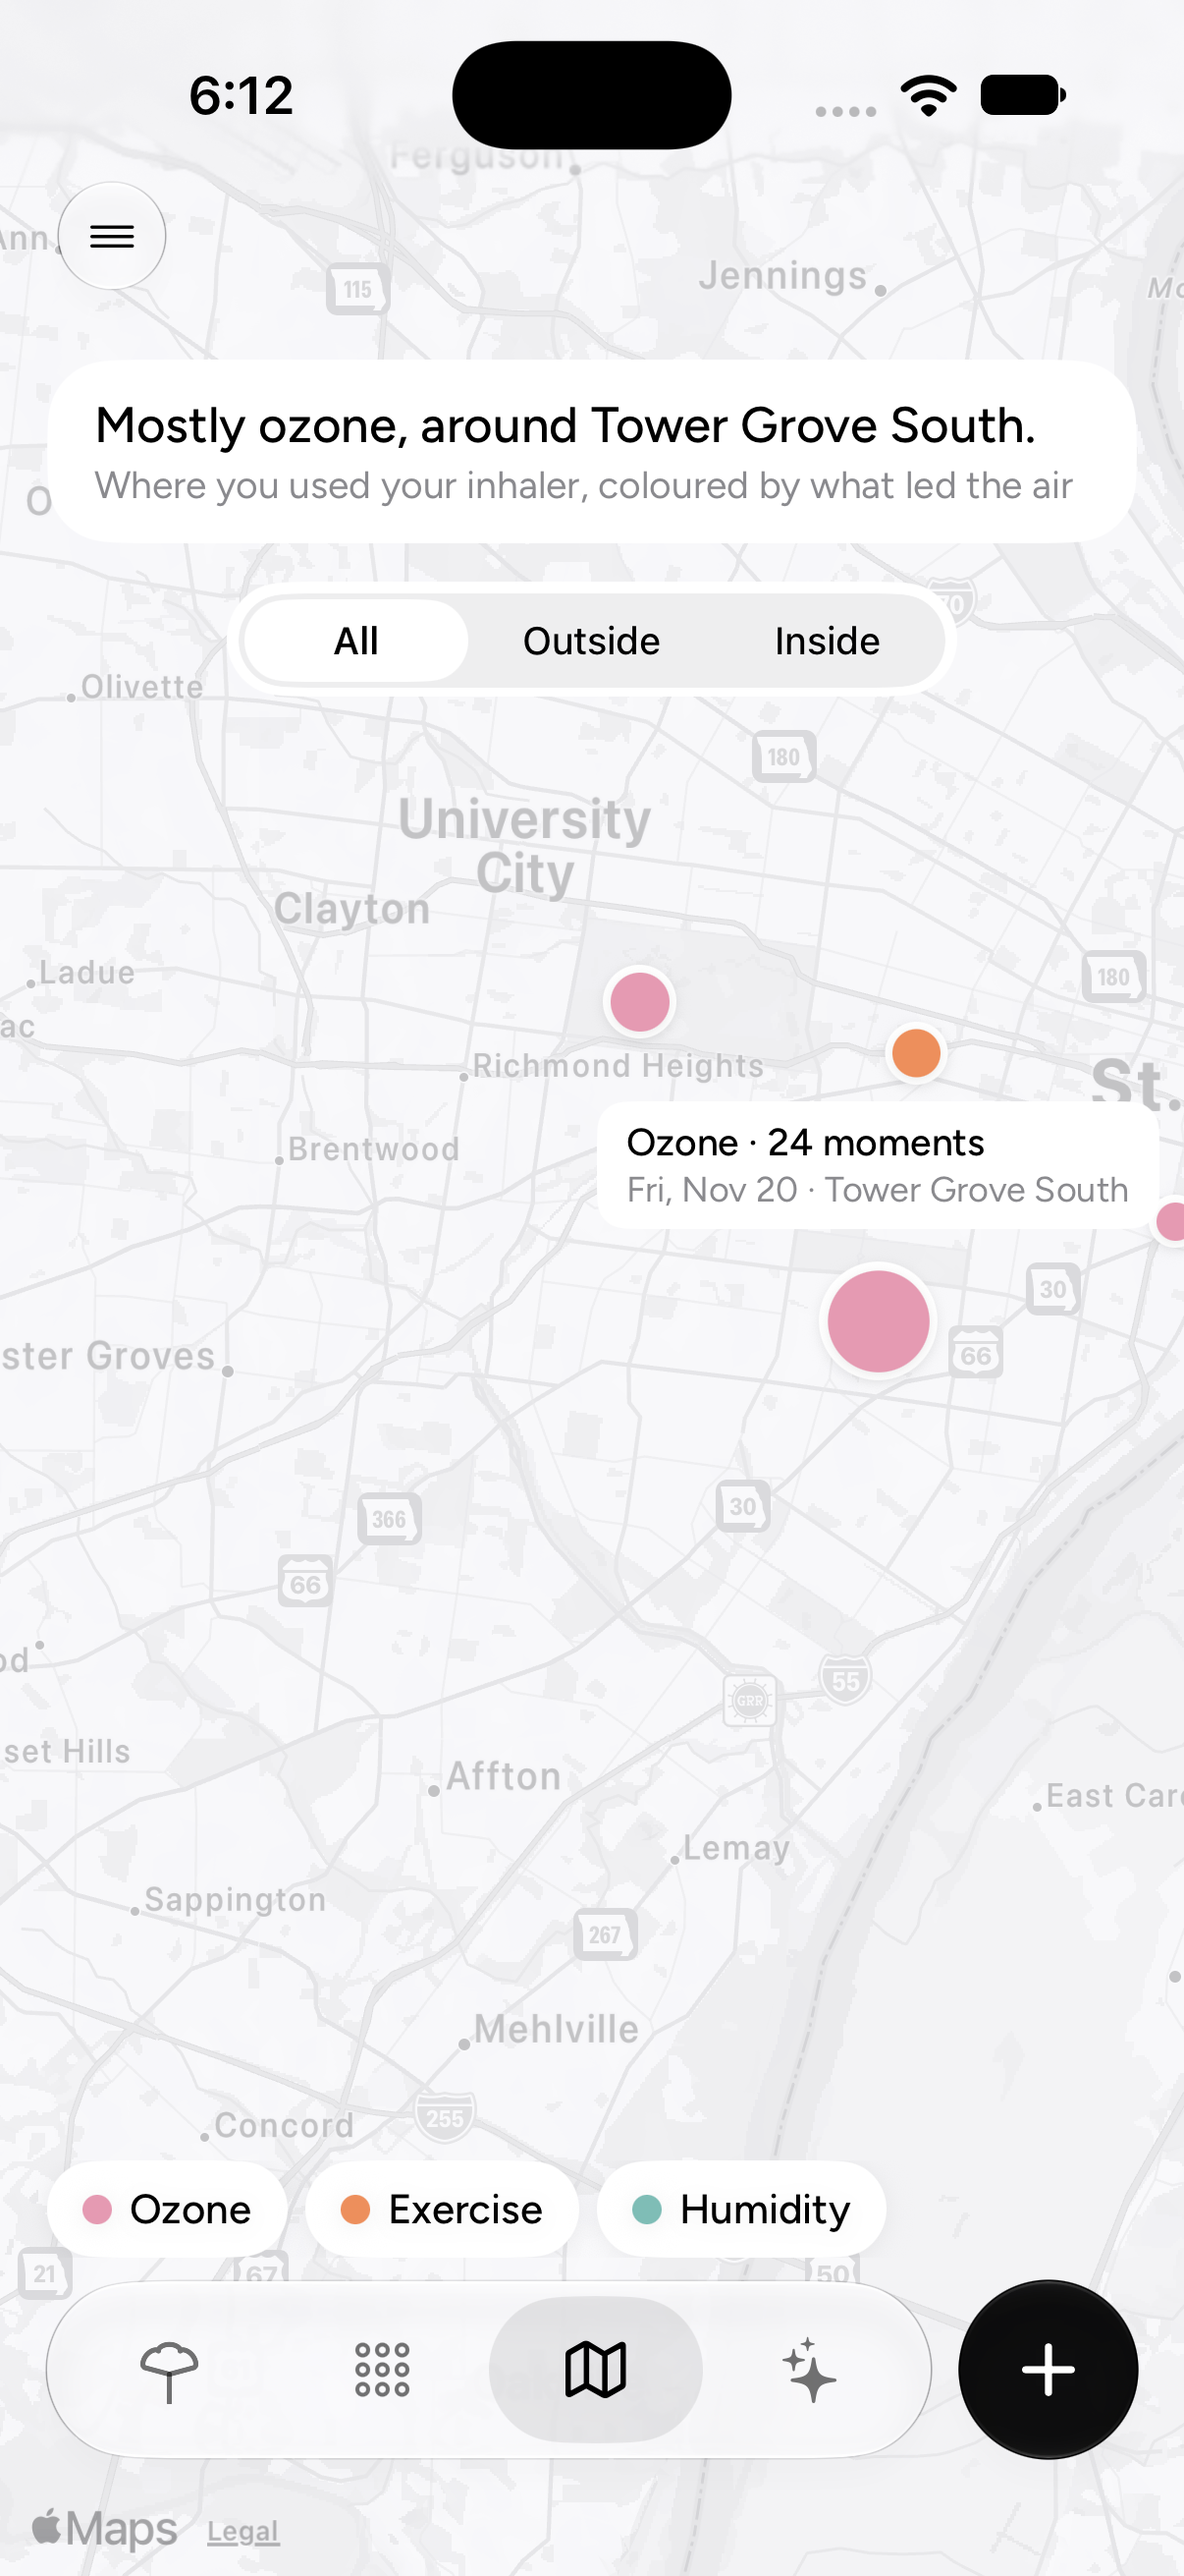
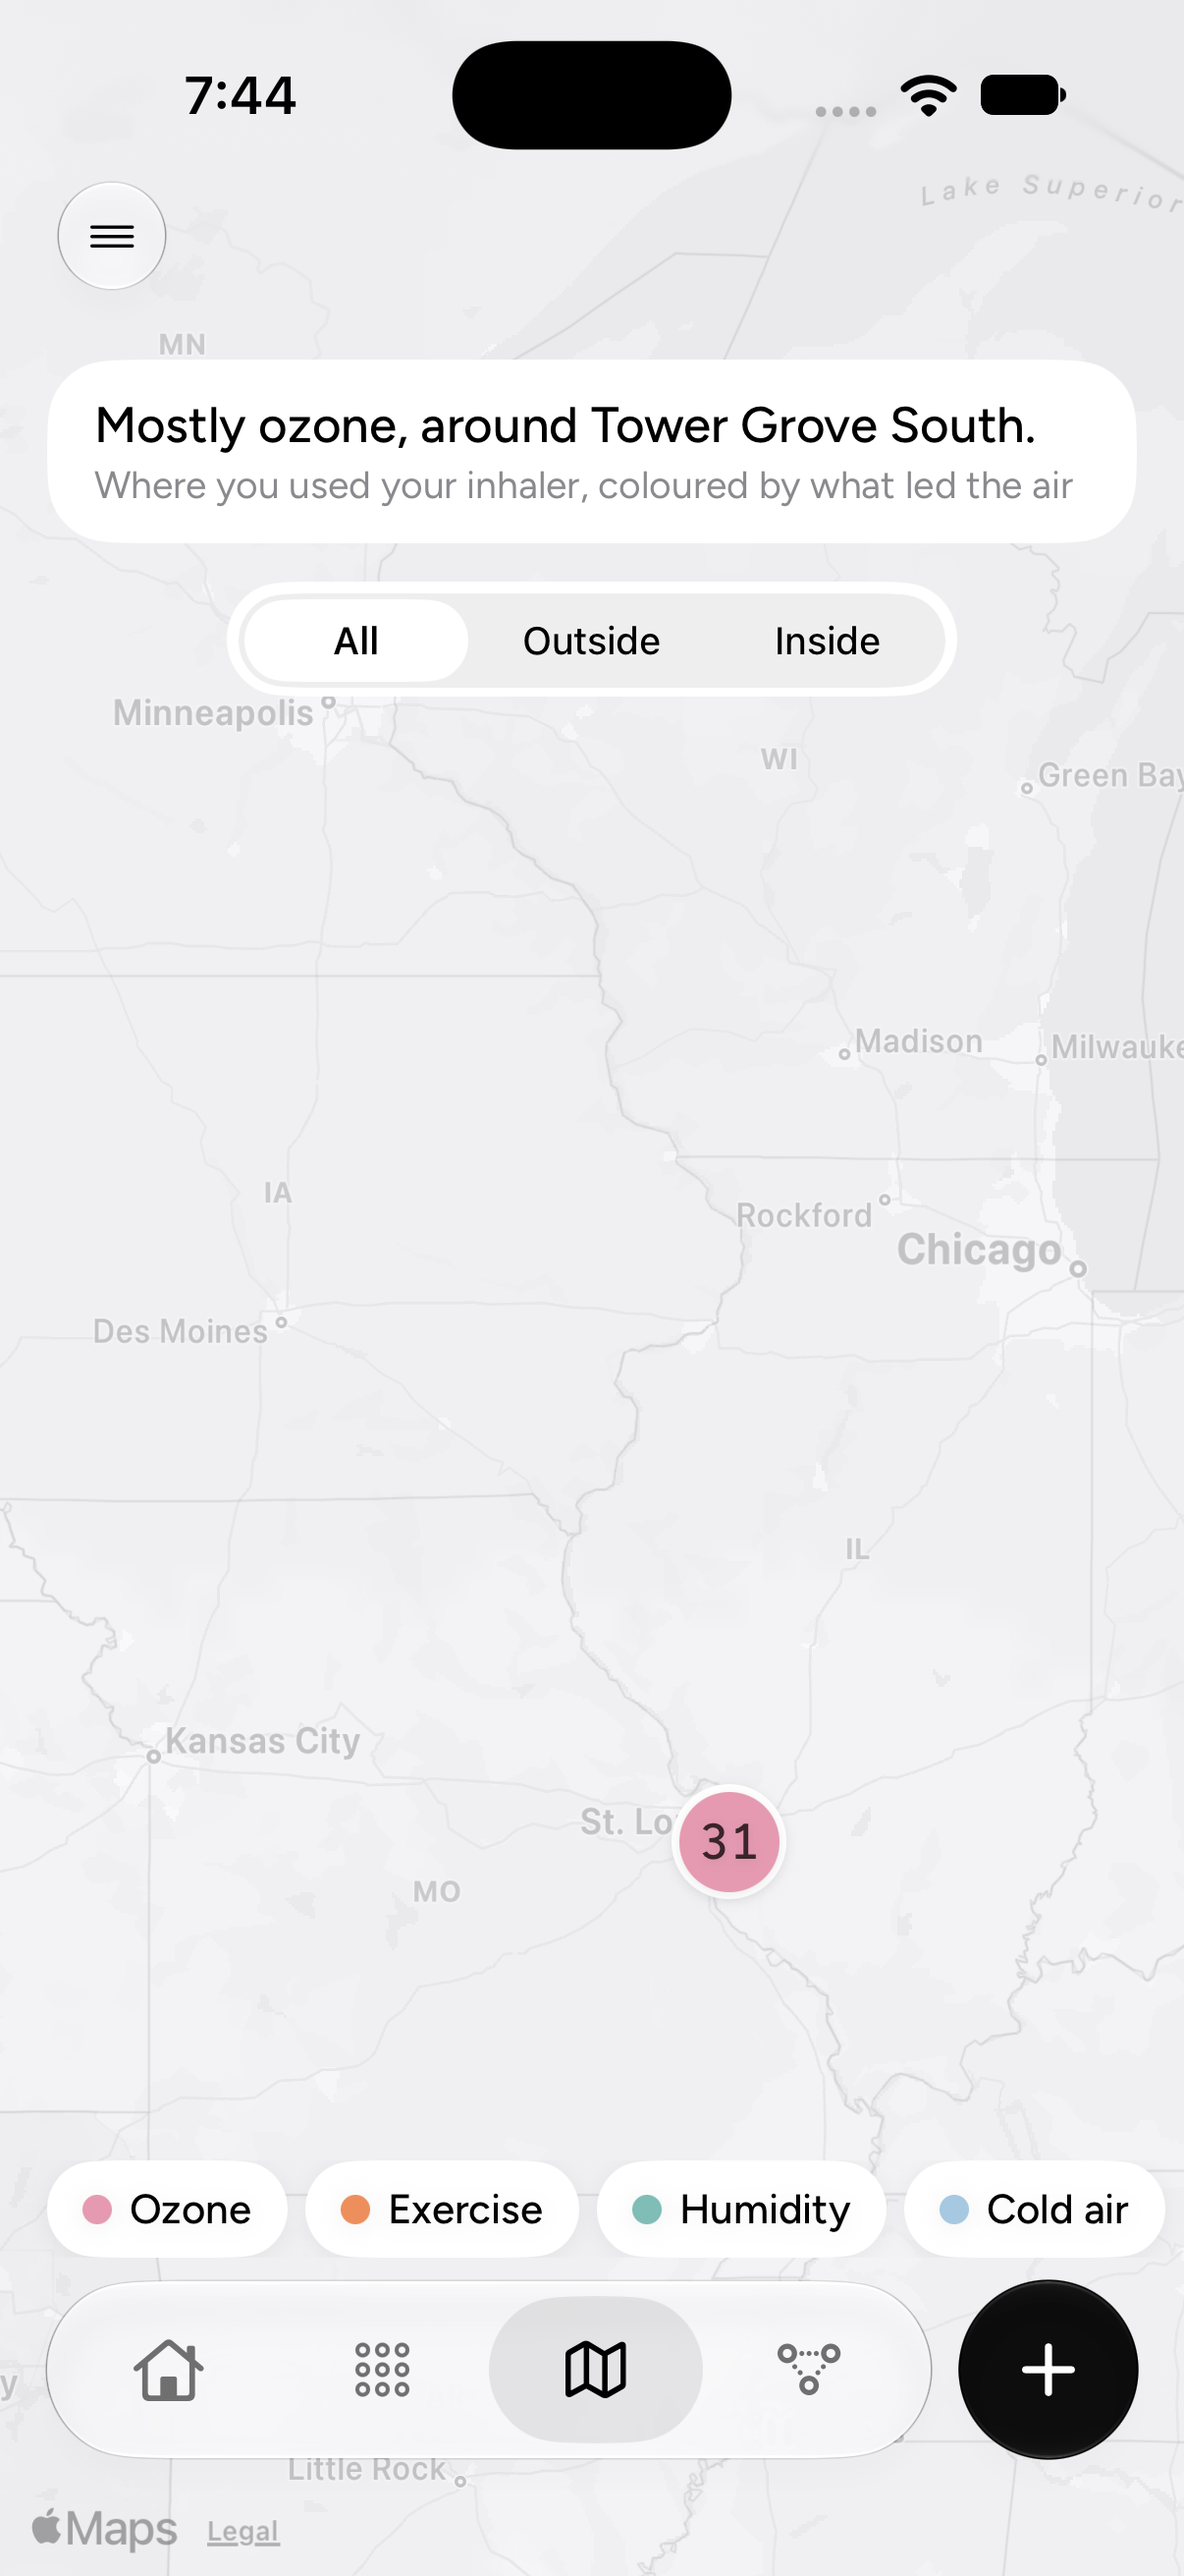
Map: count back inside cluster drops, no ring

diff --git a/ios/AsthmaLog/Journal/MenusMapView.swift b/ios/AsthmaLog/Journal/MenusMapView.swift
@@ -171,10 +171,18 @@ struct MenusMapView: View {
                 .transition(.opacity.combined(with: .scale(scale: 0.9, anchor: .bottom)))
             }
             // Cohesive (April, Nov 20: the count in a ring over a tint "looks vibe coded"): one solid drop of the
-            // trigger's watercolour ink with a paper edge, like the Year blanket's colours, no stroke, no number.
-            // More moments make a bigger drop; the count is in the label when you tap it.
-            let d = min(30, 13 + 3.5 * CGFloat(s.count - 1))
-            Circle().fill(ink)
+            // trigger's watercolour ink with a paper edge, like the Year blanket's colours, no stroke.
+            // Several moments in one spot (April, Nov 20): the count sits in the drop, in a deep shade of its own
+            // ink, so a cluster reads as one; still no ring.
+            let d = s.count > 1 ? min(34, 22 + 2.5 * CGFloat(s.count - 2)) : 13
+            ZStack {
+                Circle().fill(ink)
+                if s.count > 1 {
+                    Text("\(s.count)").font(Theme.Figtree.font(size: d * 0.5, weight: .semibold)).monospacedDigit()
+                        .foregroundStyle(ink.mix(with: .black, by: 0.62))
+                        .minimumScaleFactor(0.6).lineLimit(1)
+                }
+            }
                 .padding(2.5)
                 .background(Circle().fill(Color(uiColor: .secondarySystemGroupedBackground)))
                 .frame(width: d + 5, height: d + 5)
